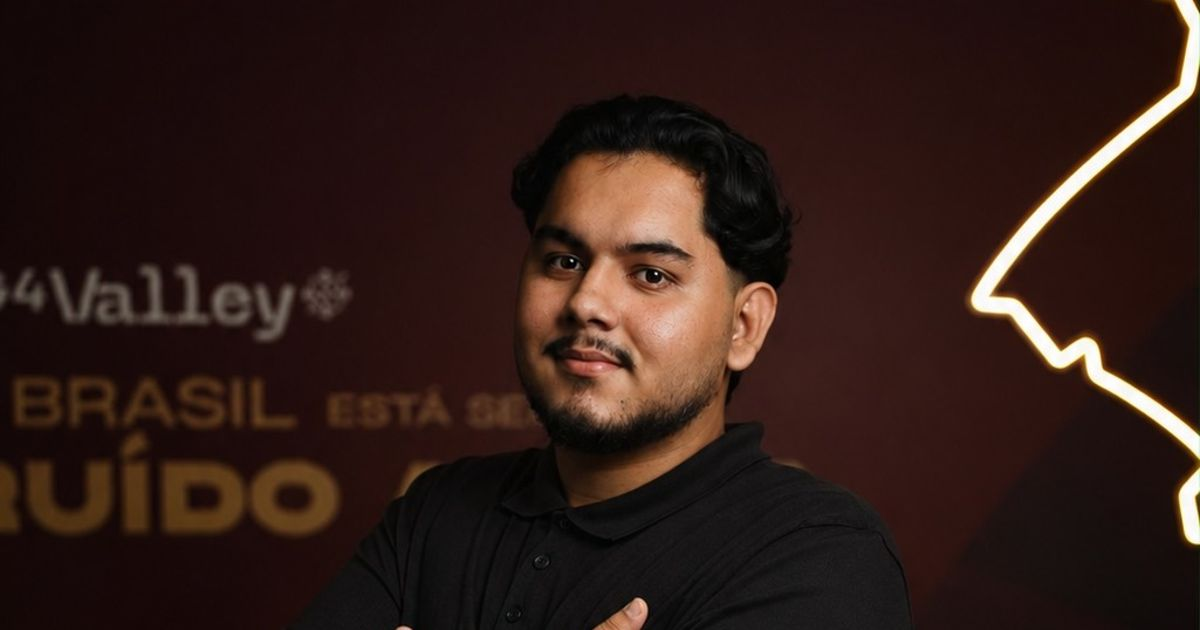
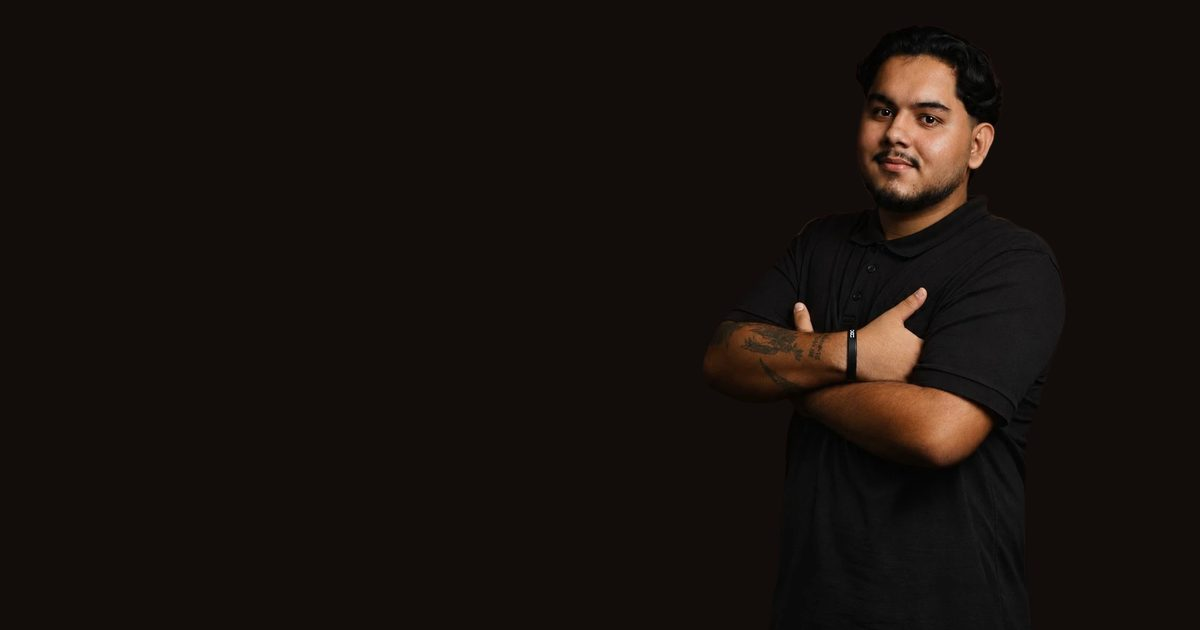
Foto recortada (fundo infinito) no topo e a mesma foto em todos os cards
- Topo: recorte da camisa preta sobre a cor da página com luz quente atrás;
  anotações reposicionadas em volta do rosto
- Cards da Consultoria e da Mentoria usam a mesma foto; só o avatar da barra
  do topo continua diferente
- Imagem de compartilhamento refeita com a mesma foto

Claude-Session: https://claude.ai/code/session_011Ju1c6CxHtptzmreeGQxAb

diff --git a/assets/css/site.css b/assets/css/site.css
@@ -62,7 +62,10 @@ p{margin:0}
 
 /* ---------- hero ---------- */
 .hero{position:relative;width:100%;margin:0 auto}
-.hero-photo{position:relative;width:100%;height:min(125vw,82svh);min-height:420px;overflow:hidden;background:#2a1612}
+.hero{padding-top:calc(54px + env(safe-area-inset-top))}
+/* fundo infinito: recorte sobre a cor da página, com uma luz quente atrás para separar a camisa preta */
+.hero-photo{position:relative;width:100%;height:min(125vw,82svh);min-height:420px;overflow:hidden;
+  background:radial-gradient(55% 48% at 56% 40%,rgba(212,147,95,.26),rgba(212,147,95,.08) 55%,transparent 75%)}
 .hero-photo img{width:100%;height:100%;object-fit:cover;object-position:50% 20%}
 .hero-photo .tiles{position:absolute;inset:0;display:grid;pointer-events:none}
 .tile{background-repeat:no-repeat;will-change:transform,opacity}
@@ -100,18 +103,18 @@ mark.hl.on{background-size:100% 100%}
 .annots.on .annot svg path{stroke-dashoffset:0}
 .annots.on .a2{transition-delay:.35s}.annots.on .a2 svg path{transition-delay:.6s}
 .annots.on .a3{transition-delay:.7s}.annots.on .a3 svg path{transition-delay:.95s}
-.a1{left:4%;top:13%;--r:-6deg}
-.a1 svg{left:.6em;top:.9em}
-.a2{right:3%;top:47%;--r:3deg;text-align:right;line-height:.95}
-.a2 svg{left:-2.5em;top:.2em}
-.a3{right:5%;top:63%;--r:-3deg}
-.a3 svg{left:-2.6em;top:-.1em}
+.a1{left:4%;top:7%;--r:-6deg}
+.a1 svg{left:4.3em;top:.1em}
+.a2{right:2%;top:17%;--r:3deg;text-align:right;line-height:.95}
+.a2 svg{left:-2.5em;top:.4em}
+.a3{left:3%;top:26%;--r:-4deg}
+.a3 svg{left:5em;top:.1em}
 
 /* ---------- hub de links ---------- */
 .hub{padding-top:44px;display:grid;gap:14px}
 .card{position:relative;display:block;border-radius:var(--r);background:var(--card);box-shadow:0 0 0 1px var(--line) inset;overflow:hidden;transition:transform .25s var(--ease-out),box-shadow .25s}
 @media (hover:hover){.card:hover{transform:translateY(-3px);box-shadow:0 0 0 1px var(--line-2) inset,0 20px 40px -24px rgba(0,0,0,.8)}}
-.card-media{position:relative;aspect-ratio:16/10;overflow:hidden}
+.card-media{position:relative;aspect-ratio:16/10;overflow:hidden;background:radial-gradient(50% 70% at 50% 45%,rgba(212,147,95,.24),transparent 75%)}
 .card-media img{width:100%;height:100%;object-fit:cover;object-position:50% 30%;transition:transform .8s var(--ease-out)}
 @media (hover:hover){.card:hover .card-media img{transform:scale(1.04)}}
 .card-media::after{content:"";position:absolute;inset:0;background:linear-gradient(180deg,rgba(31,23,18,0) 40%,var(--card) 100%)}
@@ -299,7 +302,7 @@ input.invalid{border-color:var(--no);box-shadow:0 0 0 4px rgba(201,132,118,.14)}
 /* a partir de 700px (tablet, celular deitado, visualizadores que abrem em largura de desktop): foto ao lado */
 @media (min-width:700px){
   .hero{max-width:1080px;display:grid;grid-template-columns:1fr minmax(280px,44%);gap:clamp(24px,4vw,40px);align-items:end;padding:88px 24px 0}
-  .hero-photo{order:2;border-radius:28px;height:auto;min-height:0;aspect-ratio:4/5;box-shadow:0 0 0 1px var(--line-2)}
+  .hero-photo{order:2;height:auto;min-height:0;aspect-ratio:4/5}
   .hero-fade{height:30%}
   .hero-copy{margin:0;max-width:none;padding:0 0 32px}
   .hero-name{font-size:clamp(36px,4.2vw,54px)}

diff --git a/index.html b/index.html
@@ -59,17 +59,17 @@
     <div class="hero-photo" id="heroPhoto">
       <picture>
         <source srcset="assets/img/hero.webp" type="image/webp">
-        <img id="heroImg" src="assets/img/hero.jpg" alt="Mateus Oliveira de braços cruzados, camisa polo preta" width="800" height="1000" fetchpriority="high">
+        <img id="heroImg" src="assets/img/hero.png" alt="Mateus Oliveira de braços cruzados, camisa polo preta" width="800" height="1000" fetchpriority="high">
       </picture>
       <div class="tiles" id="tiles" aria-hidden="true"></div>
       <div class="hero-fade" aria-hidden="true"></div>
       <div class="annots" aria-hidden="true">
         <span class="annot a1">Empresário
-          <svg viewBox="0 0 80 60"><path d="M8 4c4 18 18 32 44 40"/><path d="M38 47l15-3-8-12"/></svg></span>
+          <svg viewBox="0 0 80 60"><path d="M4 10c18-2 36 6 50 26"/><path d="M42 34l12 3 2-13"/></svg></span>
         <span class="annot a2">Cofundador<br>da Hollmind
           <svg viewBox="0 0 80 60"><path d="M76 12C58 10 36 16 14 32"/><path d="M26 22 12 33 27 38"/></svg></span>
         <span class="annot a3">Tráfego pago
-          <svg viewBox="0 0 80 60"><path d="M76 12C58 10 36 16 14 32"/><path d="M26 22 12 33 27 38"/></svg></span>
+          <svg viewBox="0 0 80 60"><path d="M4 10c18-2 36 6 50 26"/><path d="M42 34l12 3 2-13"/></svg></span>
       </div>
     </div>
 
@@ -103,7 +103,7 @@
 
     <article class="card card-photo card-primary reveal">
       <div class="card-media">
-        <picture><source srcset="assets/img/diagnostico.webp" type="image/webp"><img src="assets/img/diagnostico.jpg" alt="Mateus de braços cruzados, camisa polo terracota" loading="lazy" width="800" height="500"></picture>
+        <picture><source srcset="assets/img/card.webp" type="image/webp"><img src="assets/img/card.png" alt="Mateus Oliveira, camisa polo preta" loading="lazy" width="800" height="500"></picture>
         <span class="badge"><svg class="ic"><use href="#i-briefcase"/></svg> Para empresas</span>
       </div>
       <div class="card-body">
@@ -115,7 +115,7 @@
 
     <article class="card card-photo reveal">
       <div class="card-media">
-        <picture><source srcset="assets/img/mentoria.webp" type="image/webp"><img src="assets/img/mentoria.jpg" alt="Mateus sentado, camisa polo terracota" loading="lazy" width="800" height="500"></picture>
+        <picture><source srcset="assets/img/card.webp" type="image/webp"><img src="assets/img/card.png" alt="Mateus Oliveira, camisa polo preta" loading="lazy" width="800" height="500"></picture>
         <span class="badge"><svg class="ic"><use href="#i-rocket"/></svg> Para gestores e agências</span>
       </div>
       <div class="card-body">
